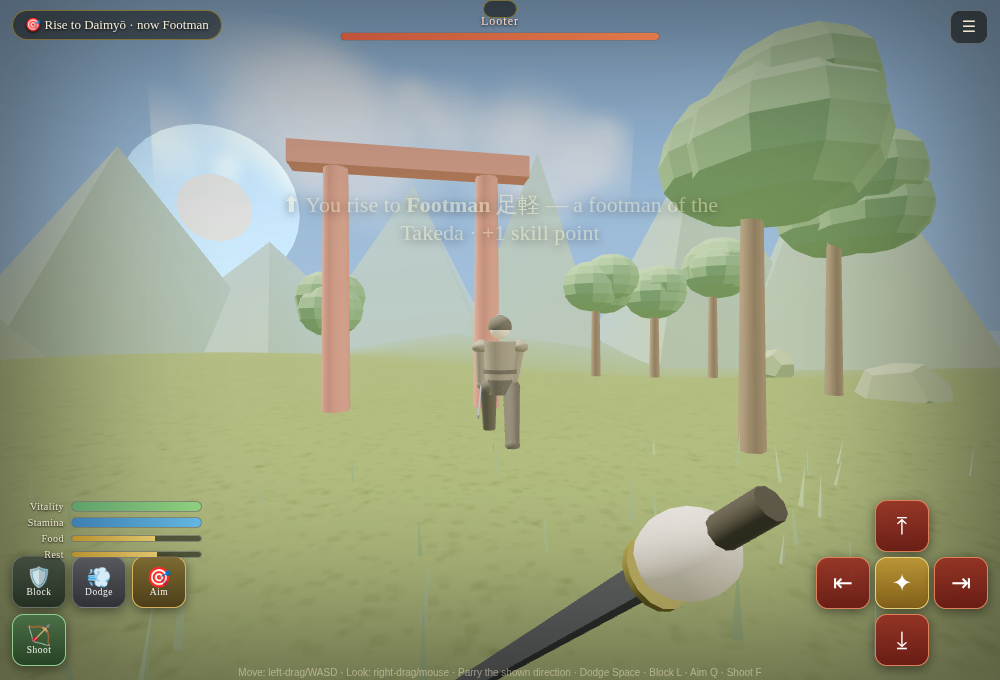
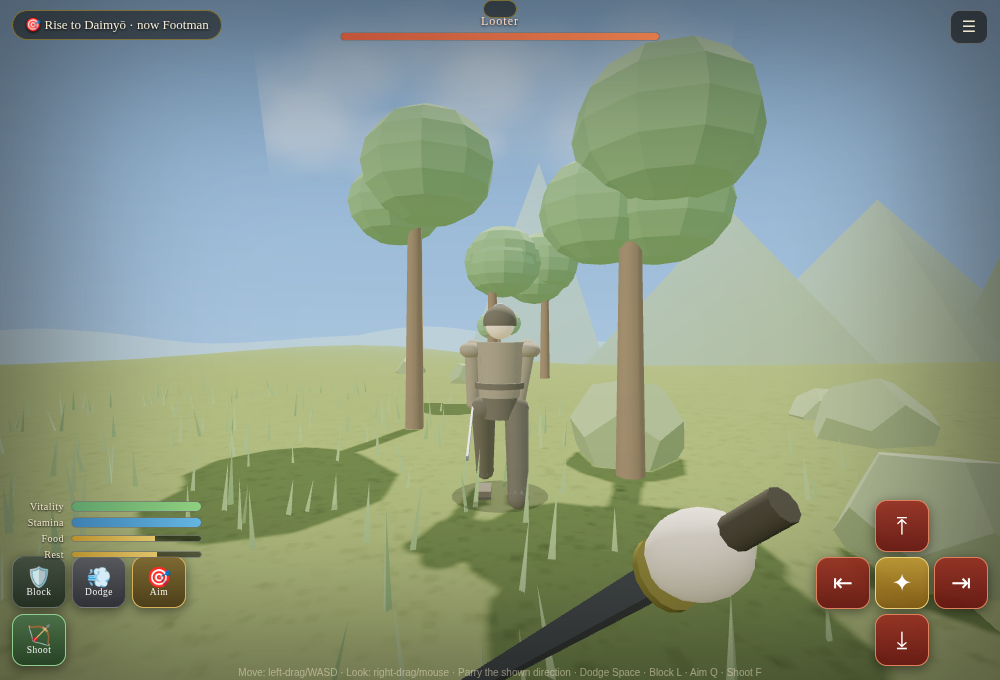
Warrior world: free look + move any direction (fix one-way run/view)
The open-world camera was built around locking onto an enemy, so with no
foe it snapped back to one fixed yaw every frame — you could only face and
run one direction. Replaced the recentering offset with a persistent
free-look yaw/pitch (E.viewYaw/viewPitch) set by right-drag/mouse; movement
is now relative to where you actually face, so WASD/stick take you any way
you're looking. In a fight a gentle auto-face keeps the enemy framed but
you can still turn freely; a new foe spawns ahead of your facing and the
view turns to him. Browser-tested: look turns & persists (no snap-back),
movement follows facing (different axes per yaw), run-away-miss still works,
0 JS errors.

diff --git a/dist/artifact.html b/dist/artifact.html
@@ -5357,7 +5357,7 @@ WARRIOR3D.enter = function (opts) {
     mode: "explore", foe: null, queue: [], waypoint: null, fightRes: null, onContinue: null, tutorial: false,
     // input
     px: 0, pz: 0, km: {}, joy: { active: false, id: null, ox: 0, oy: 0, x: 0, y: 0 }, look: { active: false, id: null, lx: 0, ly: 0 },
-    yaw: 0, pitch: 0, yawTarget: 0, pitchTarget: 0,
+    viewYaw: 0, viewPitch: 0,
     vmClip: "idle", vmT: 0, blocking: false, aiming: false, aimT: 0, dodgeT: 0, dodgeDir: 1, shake: 0, hitFlash: 0,
     winded: 0, vulnT: 0, combo: 0, fov: 72, fovTarget: 72,
     particles: [], arrows: [],
@@ -5608,7 +5608,11 @@ WARRIOR3D._nextFoe = function (E) {
   const def = E.queue.shift();
   if (!def) { E.mode = "explore"; document.getElementById("w3-foewrap").classList.remove("on"); WARRIOR3D._prompt(E, "", ""); const r = E.fightRes; E.fightRes = null; if (r) r(true); return; }
   const mesh = WARRIOR3D._makeFoe(def); const ang = (Math.random() - 0.5) * 0.5;
-  mesh.position.set(E.px + Math.sin(ang) * 7, 0, E.pz - 9); mesh.rotation.y = Math.PI; E.scene.add(mesh);
+  // spawn ahead of where you're facing, and turn to look at him
+  const fwx = -Math.sin(E.viewYaw), fwz = -Math.cos(E.viewYaw);
+  mesh.position.set(E.px + fwx * 9 + Math.cos(E.viewYaw) * Math.sin(ang) * 3, 0, E.pz + fwz * 9 - Math.sin(E.viewYaw) * Math.sin(ang) * 3);
+  mesh.rotation.y = Math.PI; E.scene.add(mesh);
+  E.viewYaw = -Math.atan2(mesh.position.x - E.px, -(mesh.position.z - E.pz));
   const wf = E.tutorial ? 1.7 : 1;
   E.foe = { def, mesh, hp: def.hp, hpMax: def.hp, dmg: def.dmg, skill: def.skill || 0.7, aggr: def.aggr || 0.6,
     state: "approach", stateT: 0, dir: null, defended: false, hitReact: 0, walkPhase: 0, dead: false, openSide: null,
@@ -5815,11 +5819,16 @@ WARRIOR3D._updateViewmodel = function (E, dt) {
 
 WARRIOR3D._updateCamera = function (E, dt) {
   const cam = E.camera, f = E.foe;
-  let baseYaw = 0;
-  if (f && f.mesh) baseYaw = -Math.atan2(f.mesh.position.x - E.px, -(f.mesh.position.z - E.pz));
-  E.yaw += (E.yawTarget - E.yaw) * Math.min(1, dt * 10); E.pitch += (E.pitchTarget - E.pitch) * Math.min(1, dt * 10);
-  E.yawTarget *= (1 - Math.min(1, dt * 1.4)); E.pitchTarget *= (1 - Math.min(1, dt * 1.4));
-  const camYaw = baseYaw + E.yaw;
+  // FREE LOOK: E.viewYaw is your persistent facing (set by right-drag / mouse).
+  // In a fight, gently steer it toward the foe so combat stays framed — but you
+  // can still turn freely; in the open world there is no auto-turn at all.
+  if (E.mode === "fight" && f && f.mesh && !f.dead) {
+    const foeYaw = -Math.atan2(f.mesh.position.x - E.px, -(f.mesh.position.z - E.pz));
+    let diff = foeYaw - E.viewYaw; while (diff > Math.PI) diff -= 2 * Math.PI; while (diff < -Math.PI) diff += 2 * Math.PI;
+    E.viewYaw += diff * Math.min(1, dt * (E.look.active ? 0.5 : 2.2));
+  }
+  const camYaw = E.viewYaw;
+  // movement, relative to where you are actually looking
   let mx = (E.km.d ? 1 : 0) - (E.km.a ? 1 : 0), my = (E.km.w ? 1 : 0) - (E.km.s ? 1 : 0);
   if (E.joy.active) { mx = E.joy.x; my = E.joy.y; }
   const ml = Math.hypot(mx, my); if (ml > 1) { mx /= ml; my /= ml; }
@@ -5831,7 +5840,7 @@ WARRIOR3D._updateCamera = function (E, dt) {
   if (E.dodgeT > 0) { E.dodgeT = Math.max(0, E.dodgeT - dt); const s = Math.sin((0.4 - E.dodgeT) / 0.4 * Math.PI); strafe = (E.dodgeDir || 1) * s * 0.7; dip = -s * 0.12; }
   let sh = 0; if (E.shake > 0) { E.shake = Math.max(0, E.shake - dt * 2.2); sh = E.shake; }
   E.fov += (E.fovTarget - E.fov) * Math.min(1, dt * 8); cam.fov = E.fov; cam.updateProjectionMatrix();
-  cam.rotation.set(E.pitch + (Math.random() - 0.5) * sh * 0.04, camYaw + (Math.random() - 0.5) * sh * 0.04, 0, "YXZ");
+  cam.rotation.set(E.viewPitch + (Math.random() - 0.5) * sh * 0.04, camYaw + (Math.random() - 0.5) * sh * 0.04, 0, "YXZ");
   const rgtX = Math.cos(camYaw), rgtZ = -Math.sin(camYaw);
   cam.position.set(E.px + rgtX * strafe, 1.66 + dip, E.pz + rgtZ * strafe);
 };
@@ -5866,7 +5875,7 @@ WARRIOR3D._bindControls = function (E) {
   const doMove = (x, y) => { let dx = x - E.joy.ox, dy = y - E.joy.oy; const d = Math.hypot(dx, dy); if (d > R) { dx *= R / d; dy *= R / d; } E.joy.x = dx / R; E.joy.y = -dy / R; if (knob) knob.style.transform = `translate(calc(-50% + ${dx}px), calc(-50% + ${dy}px))`; };
   const endMove = () => { E.joy.active = false; E.joy.x = 0; E.joy.y = 0; if (joyEl) joyEl.classList.remove("on"); };
   const start = (x, y, id) => { if (x < halfW()) startMove(x, y, id); else { look.active = true; look.id = id; look.lx = x; look.ly = y; } };
-  const moveTo = (x, y, id) => { if (E.joy.active && E.joy.id === id) doMove(x, y); else if (look.active && look.id === id) { E.yawTarget = THREE.MathUtils.clamp(E.yawTarget + (x - look.lx) * -0.006, -1.5, 1.5); E.pitchTarget = THREE.MathUtils.clamp(E.pitchTarget + (y - look.ly) * -0.005, -0.5, 0.5); look.lx = x; look.ly = y; } };
+  const moveTo = (x, y, id) => { if (E.joy.active && E.joy.id === id) doMove(x, y); else if (look.active && look.id === id) { E.viewYaw -= (x - look.lx) * 0.006; E.viewPitch = THREE.MathUtils.clamp(E.viewPitch - (y - look.ly) * 0.005, -0.5, 0.5); look.lx = x; look.ly = y; } };
   const end = (id) => { if (E.joy.id === id) endMove(); if (look.id === id) look.active = false; };
   cv.addEventListener("mousedown", e => start(e.clientX, e.clientY, "m"));
   window.addEventListener("mousemove", e => moveTo(e.clientX, e.clientY, "m"));

diff --git a/dist/shogun.html b/dist/shogun.html
@@ -5365,7 +5365,7 @@ WARRIOR3D.enter = function (opts) {
     mode: "explore", foe: null, queue: [], waypoint: null, fightRes: null, onContinue: null, tutorial: false,
     // input
     px: 0, pz: 0, km: {}, joy: { active: false, id: null, ox: 0, oy: 0, x: 0, y: 0 }, look: { active: false, id: null, lx: 0, ly: 0 },
-    yaw: 0, pitch: 0, yawTarget: 0, pitchTarget: 0,
+    viewYaw: 0, viewPitch: 0,
     vmClip: "idle", vmT: 0, blocking: false, aiming: false, aimT: 0, dodgeT: 0, dodgeDir: 1, shake: 0, hitFlash: 0,
     winded: 0, vulnT: 0, combo: 0, fov: 72, fovTarget: 72,
     particles: [], arrows: [],
@@ -5616,7 +5616,11 @@ WARRIOR3D._nextFoe = function (E) {
   const def = E.queue.shift();
   if (!def) { E.mode = "explore"; document.getElementById("w3-foewrap").classList.remove("on"); WARRIOR3D._prompt(E, "", ""); const r = E.fightRes; E.fightRes = null; if (r) r(true); return; }
   const mesh = WARRIOR3D._makeFoe(def); const ang = (Math.random() - 0.5) * 0.5;
-  mesh.position.set(E.px + Math.sin(ang) * 7, 0, E.pz - 9); mesh.rotation.y = Math.PI; E.scene.add(mesh);
+  // spawn ahead of where you're facing, and turn to look at him
+  const fwx = -Math.sin(E.viewYaw), fwz = -Math.cos(E.viewYaw);
+  mesh.position.set(E.px + fwx * 9 + Math.cos(E.viewYaw) * Math.sin(ang) * 3, 0, E.pz + fwz * 9 - Math.sin(E.viewYaw) * Math.sin(ang) * 3);
+  mesh.rotation.y = Math.PI; E.scene.add(mesh);
+  E.viewYaw = -Math.atan2(mesh.position.x - E.px, -(mesh.position.z - E.pz));
   const wf = E.tutorial ? 1.7 : 1;
   E.foe = { def, mesh, hp: def.hp, hpMax: def.hp, dmg: def.dmg, skill: def.skill || 0.7, aggr: def.aggr || 0.6,
     state: "approach", stateT: 0, dir: null, defended: false, hitReact: 0, walkPhase: 0, dead: false, openSide: null,
@@ -5823,11 +5827,16 @@ WARRIOR3D._updateViewmodel = function (E, dt) {
 
 WARRIOR3D._updateCamera = function (E, dt) {
   const cam = E.camera, f = E.foe;
-  let baseYaw = 0;
-  if (f && f.mesh) baseYaw = -Math.atan2(f.mesh.position.x - E.px, -(f.mesh.position.z - E.pz));
-  E.yaw += (E.yawTarget - E.yaw) * Math.min(1, dt * 10); E.pitch += (E.pitchTarget - E.pitch) * Math.min(1, dt * 10);
-  E.yawTarget *= (1 - Math.min(1, dt * 1.4)); E.pitchTarget *= (1 - Math.min(1, dt * 1.4));
-  const camYaw = baseYaw + E.yaw;
+  // FREE LOOK: E.viewYaw is your persistent facing (set by right-drag / mouse).
+  // In a fight, gently steer it toward the foe so combat stays framed — but you
+  // can still turn freely; in the open world there is no auto-turn at all.
+  if (E.mode === "fight" && f && f.mesh && !f.dead) {
+    const foeYaw = -Math.atan2(f.mesh.position.x - E.px, -(f.mesh.position.z - E.pz));
+    let diff = foeYaw - E.viewYaw; while (diff > Math.PI) diff -= 2 * Math.PI; while (diff < -Math.PI) diff += 2 * Math.PI;
+    E.viewYaw += diff * Math.min(1, dt * (E.look.active ? 0.5 : 2.2));
+  }
+  const camYaw = E.viewYaw;
+  // movement, relative to where you are actually looking
   let mx = (E.km.d ? 1 : 0) - (E.km.a ? 1 : 0), my = (E.km.w ? 1 : 0) - (E.km.s ? 1 : 0);
   if (E.joy.active) { mx = E.joy.x; my = E.joy.y; }
   const ml = Math.hypot(mx, my); if (ml > 1) { mx /= ml; my /= ml; }
@@ -5839,7 +5848,7 @@ WARRIOR3D._updateCamera = function (E, dt) {
   if (E.dodgeT > 0) { E.dodgeT = Math.max(0, E.dodgeT - dt); const s = Math.sin((0.4 - E.dodgeT) / 0.4 * Math.PI); strafe = (E.dodgeDir || 1) * s * 0.7; dip = -s * 0.12; }
   let sh = 0; if (E.shake > 0) { E.shake = Math.max(0, E.shake - dt * 2.2); sh = E.shake; }
   E.fov += (E.fovTarget - E.fov) * Math.min(1, dt * 8); cam.fov = E.fov; cam.updateProjectionMatrix();
-  cam.rotation.set(E.pitch + (Math.random() - 0.5) * sh * 0.04, camYaw + (Math.random() - 0.5) * sh * 0.04, 0, "YXZ");
+  cam.rotation.set(E.viewPitch + (Math.random() - 0.5) * sh * 0.04, camYaw + (Math.random() - 0.5) * sh * 0.04, 0, "YXZ");
   const rgtX = Math.cos(camYaw), rgtZ = -Math.sin(camYaw);
   cam.position.set(E.px + rgtX * strafe, 1.66 + dip, E.pz + rgtZ * strafe);
 };
@@ -5874,7 +5883,7 @@ WARRIOR3D._bindControls = function (E) {
   const doMove = (x, y) => { let dx = x - E.joy.ox, dy = y - E.joy.oy; const d = Math.hypot(dx, dy); if (d > R) { dx *= R / d; dy *= R / d; } E.joy.x = dx / R; E.joy.y = -dy / R; if (knob) knob.style.transform = `translate(calc(-50% + ${dx}px), calc(-50% + ${dy}px))`; };
   const endMove = () => { E.joy.active = false; E.joy.x = 0; E.joy.y = 0; if (joyEl) joyEl.classList.remove("on"); };
   const start = (x, y, id) => { if (x < halfW()) startMove(x, y, id); else { look.active = true; look.id = id; look.lx = x; look.ly = y; } };
-  const moveTo = (x, y, id) => { if (E.joy.active && E.joy.id === id) doMove(x, y); else if (look.active && look.id === id) { E.yawTarget = THREE.MathUtils.clamp(E.yawTarget + (x - look.lx) * -0.006, -1.5, 1.5); E.pitchTarget = THREE.MathUtils.clamp(E.pitchTarget + (y - look.ly) * -0.005, -0.5, 0.5); look.lx = x; look.ly = y; } };
+  const moveTo = (x, y, id) => { if (E.joy.active && E.joy.id === id) doMove(x, y); else if (look.active && look.id === id) { E.viewYaw -= (x - look.lx) * 0.006; E.viewPitch = THREE.MathUtils.clamp(E.viewPitch - (y - look.ly) * 0.005, -0.5, 0.5); look.lx = x; look.ly = y; } };
   const end = (id) => { if (E.joy.id === id) endMove(); if (look.id === id) look.active = false; };
   cv.addEventListener("mousedown", e => start(e.clientX, e.clientY, "m"));
   window.addEventListener("mousemove", e => moveTo(e.clientX, e.clientY, "m"));

diff --git a/js/warrior3d.js b/js/warrior3d.js
@@ -128,7 +128,7 @@ WARRIOR3D.enter = function (opts) {
     mode: "explore", foe: null, queue: [], waypoint: null, fightRes: null, onContinue: null, tutorial: false,
     // input
     px: 0, pz: 0, km: {}, joy: { active: false, id: null, ox: 0, oy: 0, x: 0, y: 0 }, look: { active: false, id: null, lx: 0, ly: 0 },
-    yaw: 0, pitch: 0, yawTarget: 0, pitchTarget: 0,
+    viewYaw: 0, viewPitch: 0,
     vmClip: "idle", vmT: 0, blocking: false, aiming: false, aimT: 0, dodgeT: 0, dodgeDir: 1, shake: 0, hitFlash: 0,
     winded: 0, vulnT: 0, combo: 0, fov: 72, fovTarget: 72,
     particles: [], arrows: [],
@@ -379,7 +379,11 @@ WARRIOR3D._nextFoe = function (E) {
   const def = E.queue.shift();
   if (!def) { E.mode = "explore"; document.getElementById("w3-foewrap").classList.remove("on"); WARRIOR3D._prompt(E, "", ""); const r = E.fightRes; E.fightRes = null; if (r) r(true); return; }
   const mesh = WARRIOR3D._makeFoe(def); const ang = (Math.random() - 0.5) * 0.5;
-  mesh.position.set(E.px + Math.sin(ang) * 7, 0, E.pz - 9); mesh.rotation.y = Math.PI; E.scene.add(mesh);
+  // spawn ahead of where you're facing, and turn to look at him
+  const fwx = -Math.sin(E.viewYaw), fwz = -Math.cos(E.viewYaw);
+  mesh.position.set(E.px + fwx * 9 + Math.cos(E.viewYaw) * Math.sin(ang) * 3, 0, E.pz + fwz * 9 - Math.sin(E.viewYaw) * Math.sin(ang) * 3);
+  mesh.rotation.y = Math.PI; E.scene.add(mesh);
+  E.viewYaw = -Math.atan2(mesh.position.x - E.px, -(mesh.position.z - E.pz));
   const wf = E.tutorial ? 1.7 : 1;
   E.foe = { def, mesh, hp: def.hp, hpMax: def.hp, dmg: def.dmg, skill: def.skill || 0.7, aggr: def.aggr || 0.6,
     state: "approach", stateT: 0, dir: null, defended: false, hitReact: 0, walkPhase: 0, dead: false, openSide: null,
@@ -586,11 +590,16 @@ WARRIOR3D._updateViewmodel = function (E, dt) {
 
 WARRIOR3D._updateCamera = function (E, dt) {
   const cam = E.camera, f = E.foe;
-  let baseYaw = 0;
-  if (f && f.mesh) baseYaw = -Math.atan2(f.mesh.position.x - E.px, -(f.mesh.position.z - E.pz));
-  E.yaw += (E.yawTarget - E.yaw) * Math.min(1, dt * 10); E.pitch += (E.pitchTarget - E.pitch) * Math.min(1, dt * 10);
-  E.yawTarget *= (1 - Math.min(1, dt * 1.4)); E.pitchTarget *= (1 - Math.min(1, dt * 1.4));
-  const camYaw = baseYaw + E.yaw;
+  // FREE LOOK: E.viewYaw is your persistent facing (set by right-drag / mouse).
+  // In a fight, gently steer it toward the foe so combat stays framed — but you
+  // can still turn freely; in the open world there is no auto-turn at all.
+  if (E.mode === "fight" && f && f.mesh && !f.dead) {
+    const foeYaw = -Math.atan2(f.mesh.position.x - E.px, -(f.mesh.position.z - E.pz));
+    let diff = foeYaw - E.viewYaw; while (diff > Math.PI) diff -= 2 * Math.PI; while (diff < -Math.PI) diff += 2 * Math.PI;
+    E.viewYaw += diff * Math.min(1, dt * (E.look.active ? 0.5 : 2.2));
+  }
+  const camYaw = E.viewYaw;
+  // movement, relative to where you are actually looking
   let mx = (E.km.d ? 1 : 0) - (E.km.a ? 1 : 0), my = (E.km.w ? 1 : 0) - (E.km.s ? 1 : 0);
   if (E.joy.active) { mx = E.joy.x; my = E.joy.y; }
   const ml = Math.hypot(mx, my); if (ml > 1) { mx /= ml; my /= ml; }
@@ -602,7 +611,7 @@ WARRIOR3D._updateCamera = function (E, dt) {
   if (E.dodgeT > 0) { E.dodgeT = Math.max(0, E.dodgeT - dt); const s = Math.sin((0.4 - E.dodgeT) / 0.4 * Math.PI); strafe = (E.dodgeDir || 1) * s * 0.7; dip = -s * 0.12; }
   let sh = 0; if (E.shake > 0) { E.shake = Math.max(0, E.shake - dt * 2.2); sh = E.shake; }
   E.fov += (E.fovTarget - E.fov) * Math.min(1, dt * 8); cam.fov = E.fov; cam.updateProjectionMatrix();
-  cam.rotation.set(E.pitch + (Math.random() - 0.5) * sh * 0.04, camYaw + (Math.random() - 0.5) * sh * 0.04, 0, "YXZ");
+  cam.rotation.set(E.viewPitch + (Math.random() - 0.5) * sh * 0.04, camYaw + (Math.random() - 0.5) * sh * 0.04, 0, "YXZ");
   const rgtX = Math.cos(camYaw), rgtZ = -Math.sin(camYaw);
   cam.position.set(E.px + rgtX * strafe, 1.66 + dip, E.pz + rgtZ * strafe);
 };
@@ -637,7 +646,7 @@ WARRIOR3D._bindControls = function (E) {
   const doMove = (x, y) => { let dx = x - E.joy.ox, dy = y - E.joy.oy; const d = Math.hypot(dx, dy); if (d > R) { dx *= R / d; dy *= R / d; } E.joy.x = dx / R; E.joy.y = -dy / R; if (knob) knob.style.transform = `translate(calc(-50% + ${dx}px), calc(-50% + ${dy}px))`; };
   const endMove = () => { E.joy.active = false; E.joy.x = 0; E.joy.y = 0; if (joyEl) joyEl.classList.remove("on"); };
   const start = (x, y, id) => { if (x < halfW()) startMove(x, y, id); else { look.active = true; look.id = id; look.lx = x; look.ly = y; } };
-  const moveTo = (x, y, id) => { if (E.joy.active && E.joy.id === id) doMove(x, y); else if (look.active && look.id === id) { E.yawTarget = THREE.MathUtils.clamp(E.yawTarget + (x - look.lx) * -0.006, -1.5, 1.5); E.pitchTarget = THREE.MathUtils.clamp(E.pitchTarget + (y - look.ly) * -0.005, -0.5, 0.5); look.lx = x; look.ly = y; } };
+  const moveTo = (x, y, id) => { if (E.joy.active && E.joy.id === id) doMove(x, y); else if (look.active && look.id === id) { E.viewYaw -= (x - look.lx) * 0.006; E.viewPitch = THREE.MathUtils.clamp(E.viewPitch - (y - look.ly) * 0.005, -0.5, 0.5); look.lx = x; look.ly = y; } };
   const end = (id) => { if (E.joy.id === id) endMove(); if (look.id === id) look.active = false; };
   cv.addEventListener("mousedown", e => start(e.clientX, e.clientY, "m"));
   window.addEventListener("mousemove", e => moveTo(e.clientX, e.clientY, "m"));
